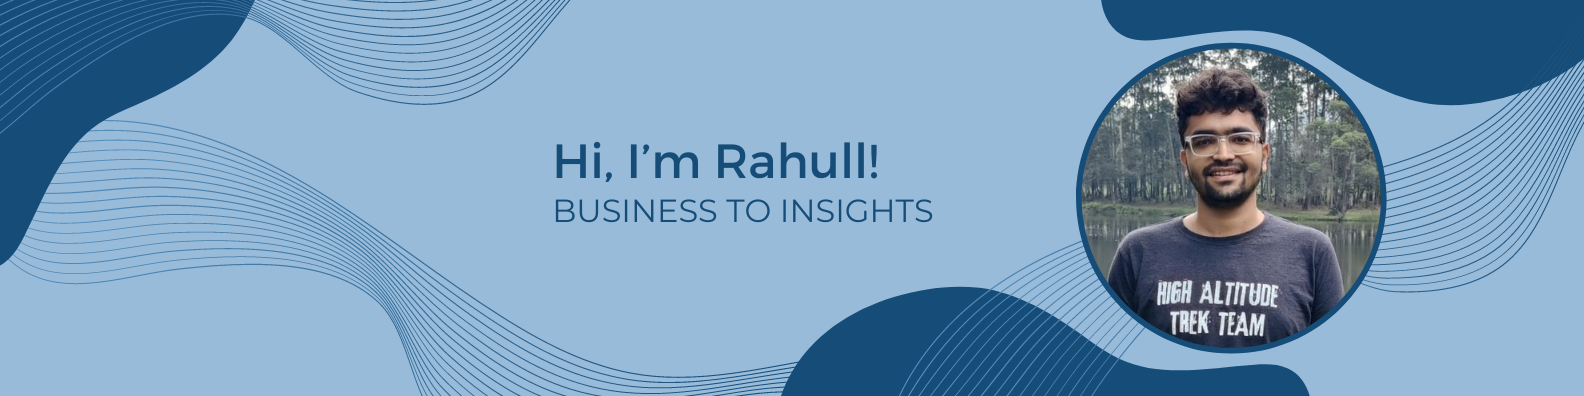
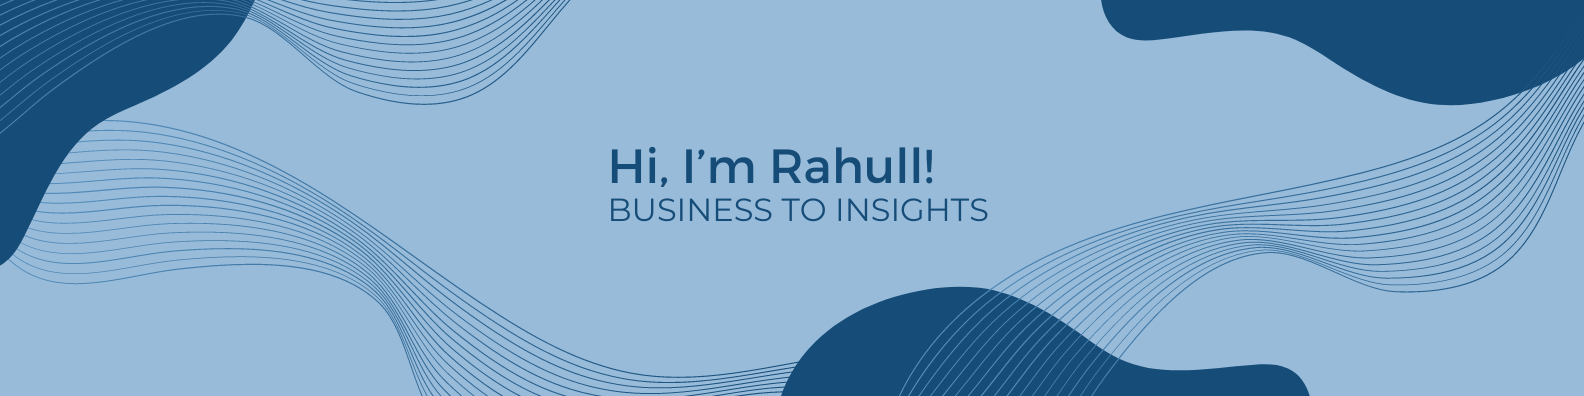
v2

Changed region(s): [[0.6806, 0.0909, 0.8971, 0.9091], [0.3403, 0.3636, 0.6187, 0.5758]]

diff --git a/index.html b/index.html
@@ -16,7 +16,7 @@
 		<!-- Header -->
 			<section id="header">
 				<header>
-					<span class="image avatar"><img alt="" /></span>
+					<span class="image avatar"><img src="images/rahull.jpeg" alt="" /></span>
 					<!-- <h1 id="logo"><a href="#">Hi, I'm Rahull!</a></h1> -->
 					<p></p>
 				</header>
